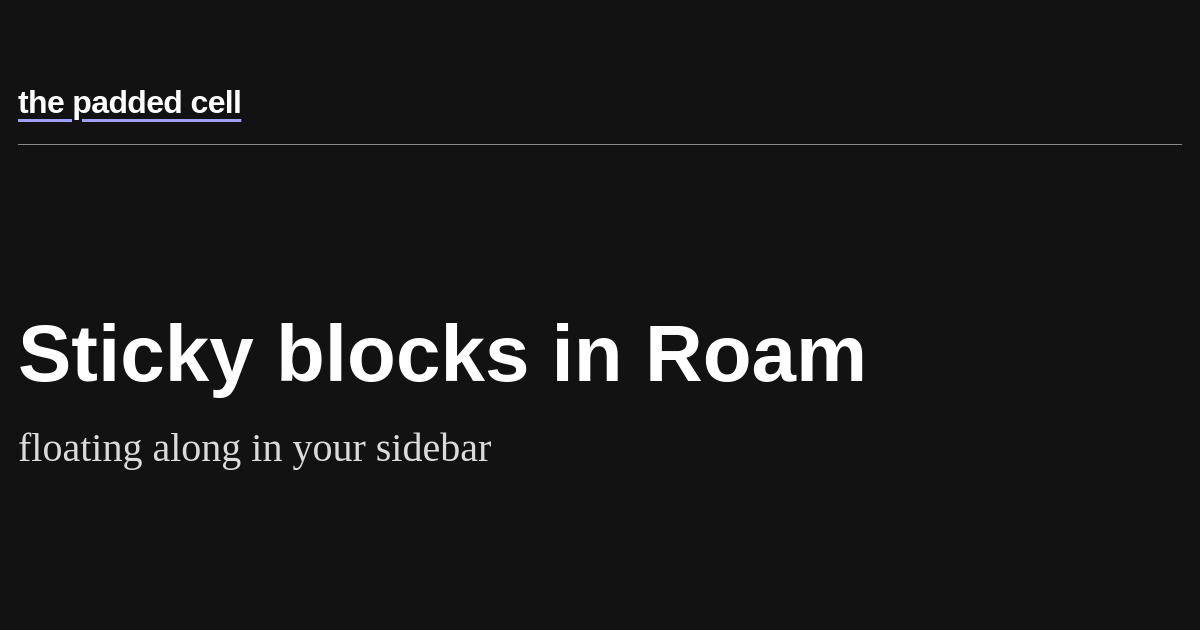
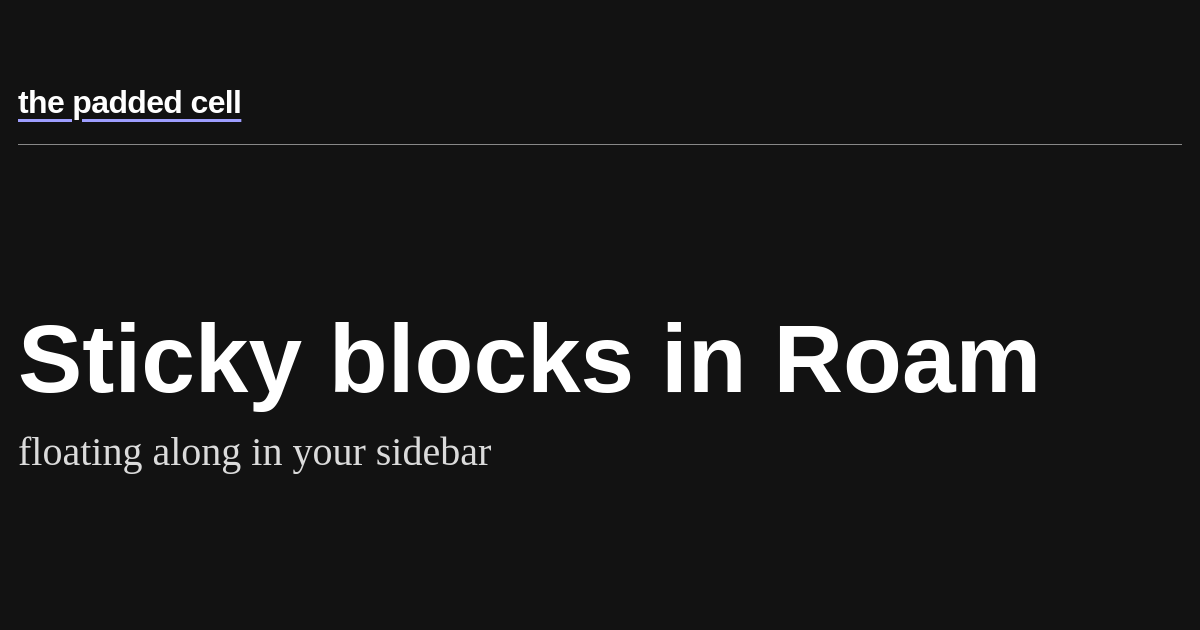
Improve size calculation for text
This is much more dynamic and relies on CSS to handle it for us, and
it lets really really long titles get split across multiple lines, and
still look decent.

And just try to get those loooong titles to not be so long in the
future instead.

Changed region(s): [[0.0, 0.5127, 0.8633, 0.6635], [0.0, 0.6937, 0.4008, 0.754]]

diff --git a/themes/sanitarium/layouts/_default/page.banner.html b/themes/sanitarium/layouts/_default/page.banner.html
@@ -26,6 +26,8 @@
         color-scheme: dark;
 
         font-size: 18px;
+
+        --char-count: 20; /* Default for medium-length titles */
     }
 
     /* Basic body styling */
@@ -94,27 +96,13 @@
     }
 
     h1 {
-        font-size: 80px; /* Starting size, will be adjusted by JS */
+        font-size: min(120px, max(32px, 225ch / var(--char-count)));
         line-height: 1.1;
-        max-width: 1000px;
-    }
-
-    /* More aggressive scaling for very wide viewports to prioritize single-line */
-    @media (min-width: 768px) {
-        h1 {
-            font-size: clamp(2rem, 3vw + 0.8rem, 3.5rem);
-        }
-    }
-
-    @media (min-width: 1200px) {
-        h1 {
-            font-size: clamp(2.2rem, 2.5vw + 1rem, 3.2rem);
-        }
     }
 
     /* Heading group styling */
     hgroup h1 {
-        margin-bottom: 0.3em;
+        margin-bottom: 0.15em;
     }
 
     hgroup h1 + p {
@@ -124,7 +112,6 @@
         color: rgba(255, 255, 255, 0.85); /* Dark mode text color */
         font-weight: normal;
         line-height: 1.3;
-        /*font-style: italic;*/
     }
 
     /* Link styling */
@@ -143,23 +130,8 @@
         padding-top: 60px;
         display: flex;
         flex-direction: column;
-        /*border: 3px solid #ff0000;*/
-        /*box-sizing: border-box;*/
-        /*position: relative;*/
         overflow: hidden;
     }
-
-    /*body:has(main article.banner)::before {*/
-    /*    content: "1200×630px";*/
-    /*    position: absolute;*/
-    /*    top: 5px;*/
-    /*    right: 5px;*/
-    /*    background: #ff0000;*/
-    /*    color: white;*/
-    /*    padding: 2px 6px;*/
-    /*    font-size: 12px;*/
-    /*    font-family: monospace;*/
-    /*}*/
 
     body:has(main article.banner) main {
         flex: 1;
@@ -177,25 +149,14 @@
     function resizeTextToFit() {
         const title = document.querySelector('h1.title');
         const subtitle = document.querySelector('p.subtitle');
-        const maxWidth = 1000;
-        const minTitleSize = 32;
-        const maxTitleSize = 80;
-        const minSubtitleSize = 18;
-        const maxSubtitleSize = 40;
+        const titleText = title.textContent;
 
-        // Reset to max size
-        title.style.fontSize = maxTitleSize + 'px';
-        subtitle.style.fontSize = maxSubtitleSize + 'px';
+        // Set the character count as a CSS custom property
+        title.style.setProperty('--char-count', titleText.length);
 
-        // Reduce title size until it fits on one line
-        let titleSize = maxTitleSize;
-        while (title.scrollWidth > maxWidth && titleSize > minTitleSize) {
-            titleSize -= 2;
-            title.style.fontSize = titleSize + 'px';
-        }
-
-        // Scale subtitle proportionally - increased from 0.35 to 0.5 for more presence
-        const subtitleSize = Math.max(minSubtitleSize, Math.min(maxSubtitleSize, titleSize * 0.6));
+        // Calculate subtitle size based on what CSS calculated for title
+        const titleComputedSize = parseFloat(getComputedStyle(title).fontSize);
+        const subtitleSize = Math.max(28, Math.min(40, titleComputedSize * 0.6));
         subtitle.style.fontSize = subtitleSize + 'px';
     }
 
